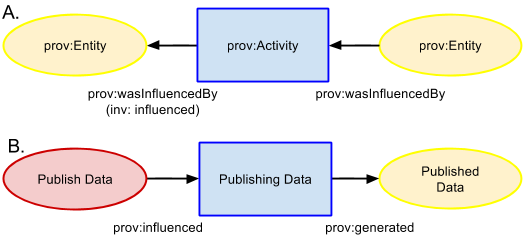
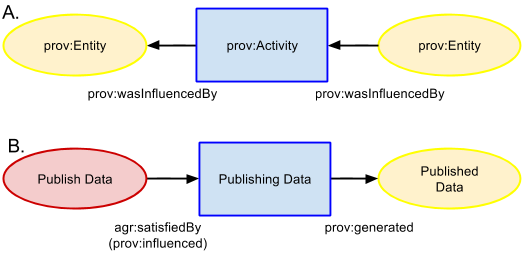
RR --> prov:Activity, not prov:Entity

diff --git a/examples/what-agreements-make-agents-do.md b/examples/what-agreements-make-agents-do.md
@@ -9,7 +9,7 @@ All of these relationships and restrictions are indicated in Figure A.
 
 ### Satisfying Requirements
 ![What Agreements make Agents do 2](what-agreements-make-agents-do-2.png)  
-In order to indicate that a Requirement has been satisfied, an Agent must generate a RequirementResolution class object. Like a Requirement, a RequirementResolution is subclass of both skos:Concept and of prov:Entity and the latter subclassification means one can be produced (*prov:generated*) by a prov:Activity. In order to know which Requirement a RequirementResolution applies to, the RequirementResolution must have an *agr:satisfies* predicate indicating a particular Requirement class instance. Different Requirements many be satisfied by different RequirementResolutions but no Requirement can require multiple RequirementResolutions simultaneously in order to be satisfied. This is indcated in Figure B.
+In order to indicate that a Requirement has been satisfied, an Agent must perform a RequirementResolution action. A RequirementResolution is subclass of both skos:Concept and of prov:Activity therefore it is a thing to be done, by some Agent.  In order to know which Requirement a RequirementResolution applies to, the RequirementResolution must have an *agr:satisfies* predicate indicating a particular Requirement class instance, the inverse of which is *agr:satisfiedBy*. Different Requirements many be satisfied by different RequirementResolutions (i.e. different Agents may undertake different actions to satisfy a particular Requirement). This is indcated in Figure B.
 
 
 #### Namespaces

diff --git a/examples/how-agreements-affect-entities.md b/examples/how-agreements-affect-entities.md
@@ -1,11 +1,10 @@
 ## How Agreements affect Entities
 ![How Agreements affecte Entities](how-agreements-affect-entities.png)
 
-Unlike Agreements that did affect data, Agreements affecting data (i.e continuing to have an affect) are not a provenance scenario since it is not in the past, thus PROV-O relationships cannot be used. The simplest construct is given in Figure A which is the same as a provenance scenario except that the data is not *wasAttributedTo* but continues to be related to an Agent (best represented as a foaf:Agent, not a prov:Agent to avoid confusion) through a relationship with currency, such as a *dct:publisher*. Of course, many other data/Agent relationships with currency can be used.
+Unlike Agreements that did affect data, Agreements affecting data (i.e continuing to have an affect) are not a provenance scenario since it is not in the past, thus PROV-O relationships cannot be used. The simplest construct is given in Figure A which is the same as a provenance scenario except that the data is not *wasAttributedTo* but continues to be related to an Agent (best represented as a foaf:Agent, not a prov:Agent to avoid confusion) through a relationship with currency. Many relationships are possible, they could be direct, such as *dct:publisher*, or qualified, such as prov:Entity *provqualifiedAttribution* prov:Attribution [*prov:Agent* AnAgent, *ex:hadRole* SomeRole].
 
 #### Namespaces
 Prefix | URI
 ------ | ---
 foaf | http://xmlns.com/foaf/0.1/#
-org | http://www.w3.org/ns/org#
 agr | http://promsns.org/def/agr#
